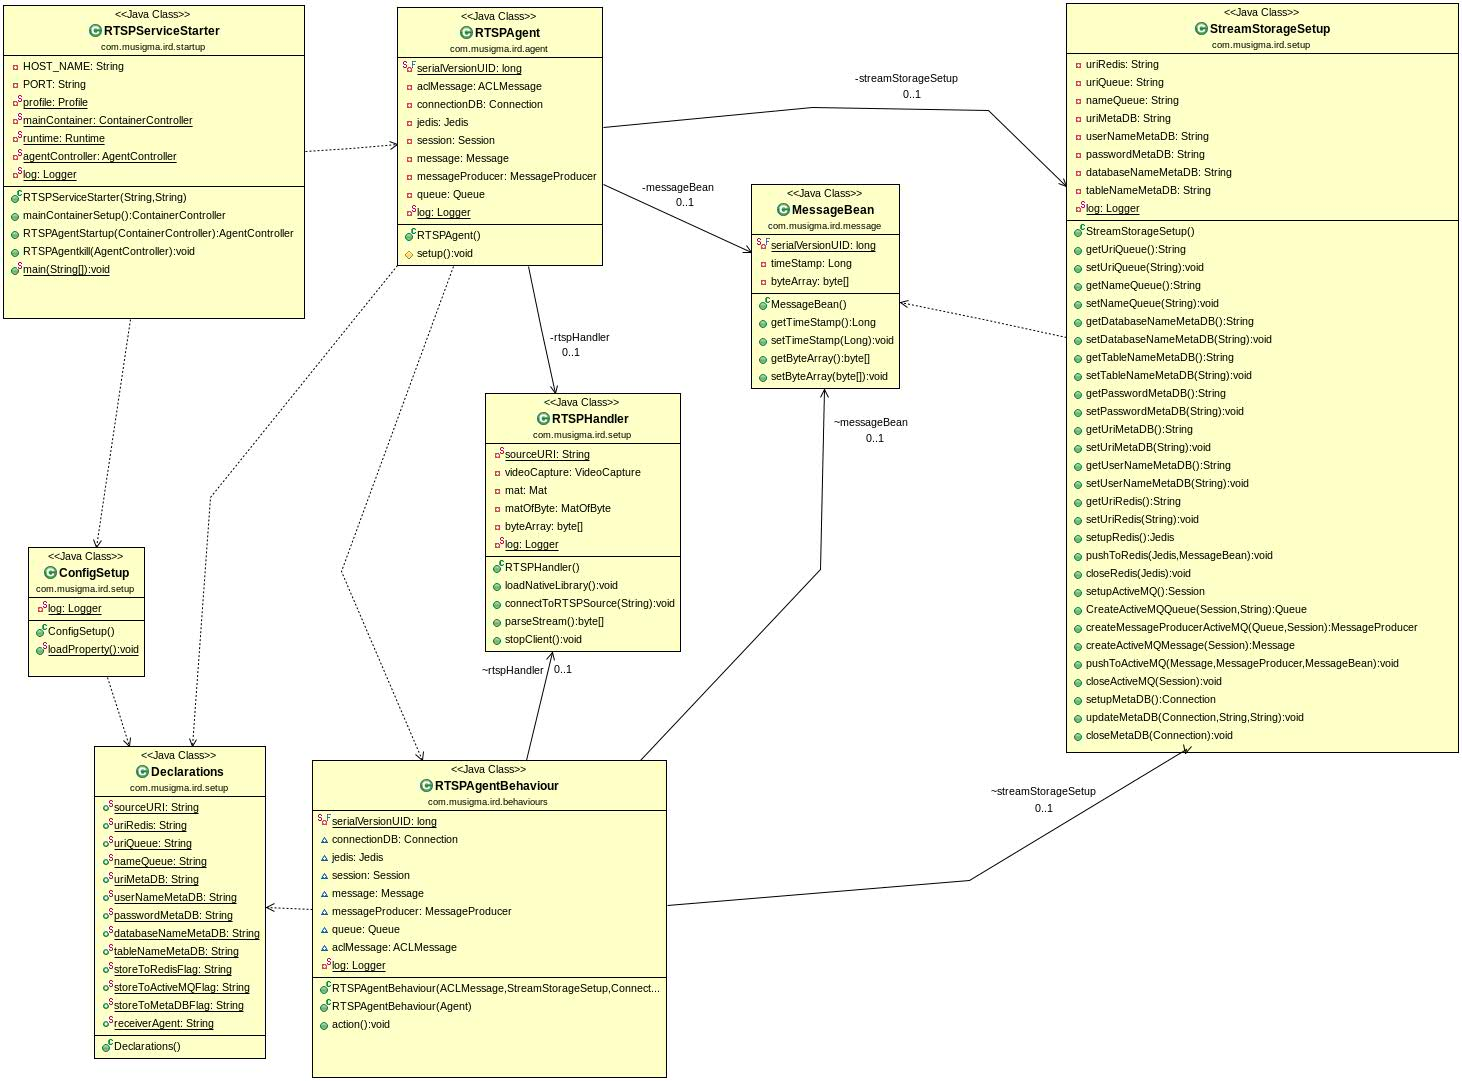
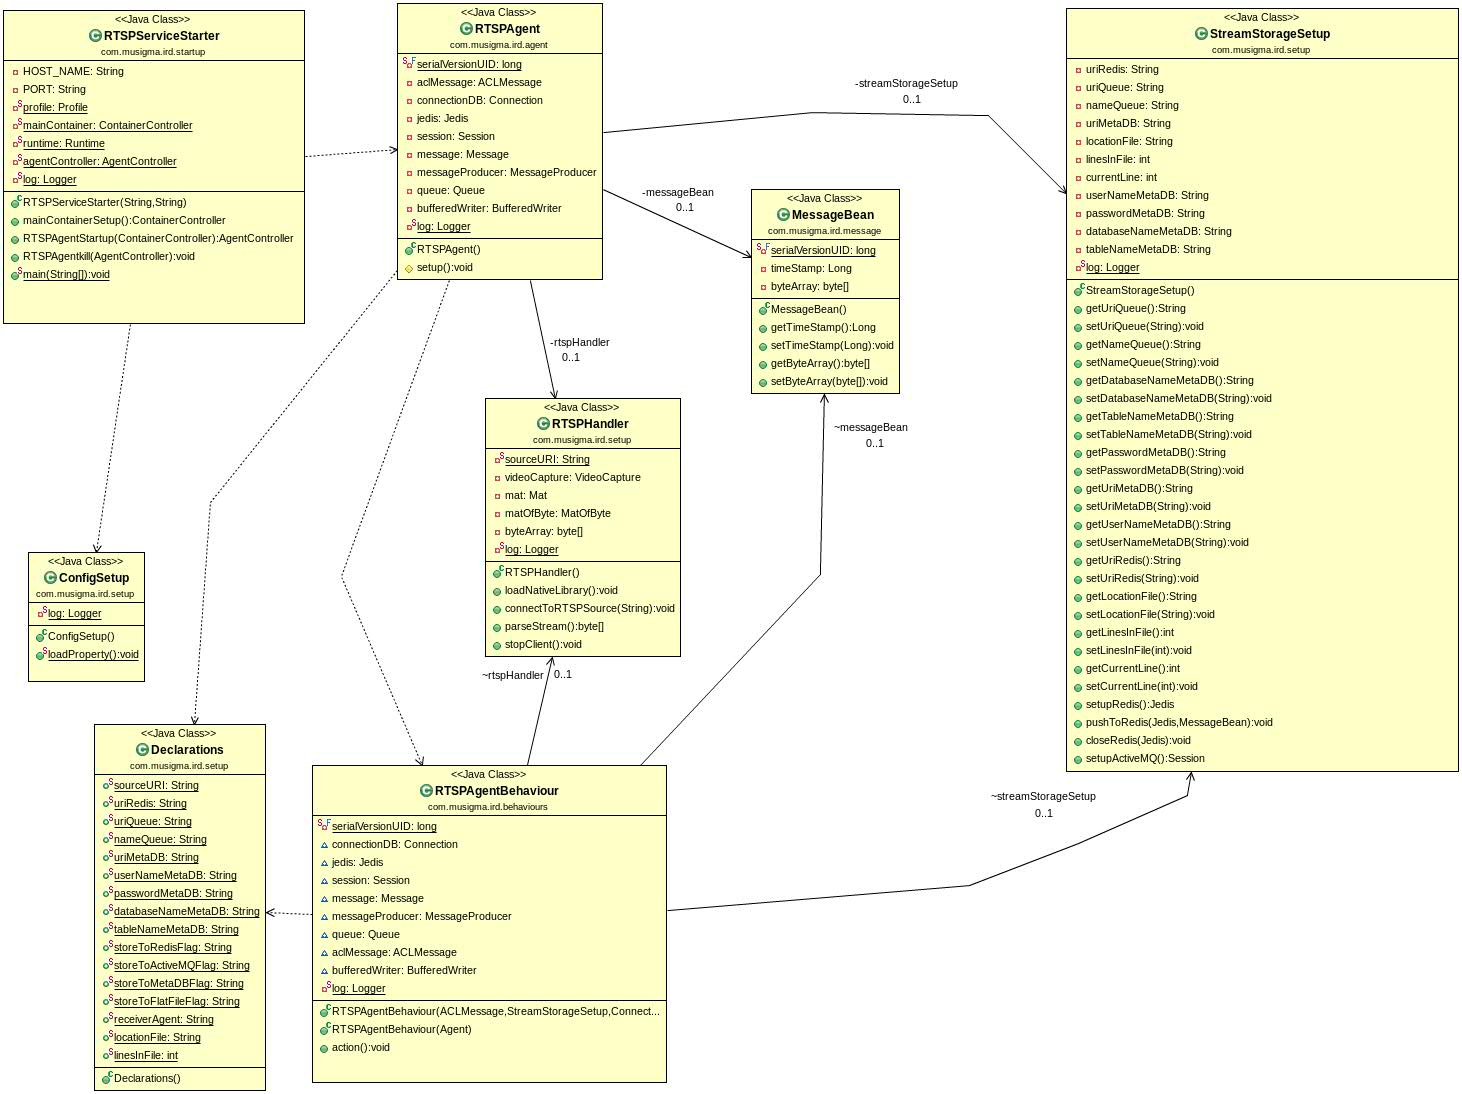
RTSP AGENT AS OF TODAY EOD

diff --git a/RTSPAgent/src/main/java/com/musigma/ird/agent/RTSPAgent.java b/RTSPAgent/src/main/java/com/musigma/ird/agent/RTSPAgent.java
@@ -164,11 +164,20 @@ public class RTSPAgent extends Agent {
 		 * UPDATE META DB
 		 *****************/
 
-		// Update the storage details in metadb
+		// Redis
 		streamStorageSetup.updateMetaDB(connectionDB, "Redis",
 				streamStorageSetup.getUriRedis());
+
+		// ActiveMQ
 		streamStorageSetup.updateMetaDB(connectionDB, "ActiveMQ",
 				streamStorageSetup.getUriQueue());
+
+		// FlatFile
+		streamStorageSetup.updateMetaDB(connectionDB, "FlatFile",
+				streamStorageSetup.getLocationFile());
+
+		// Close MetaDB
+		streamStorageSetup.closeMetaDB(connectionDB);
 
 		/*********************
 		 * RTSP HANDLER SETUP
